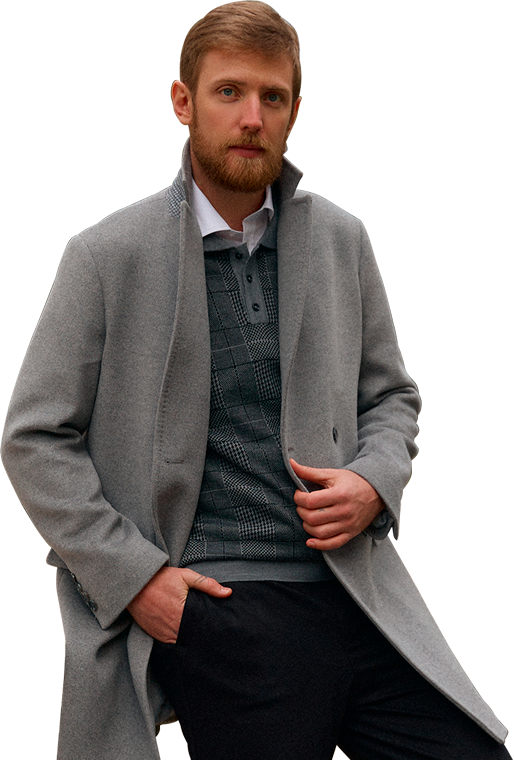
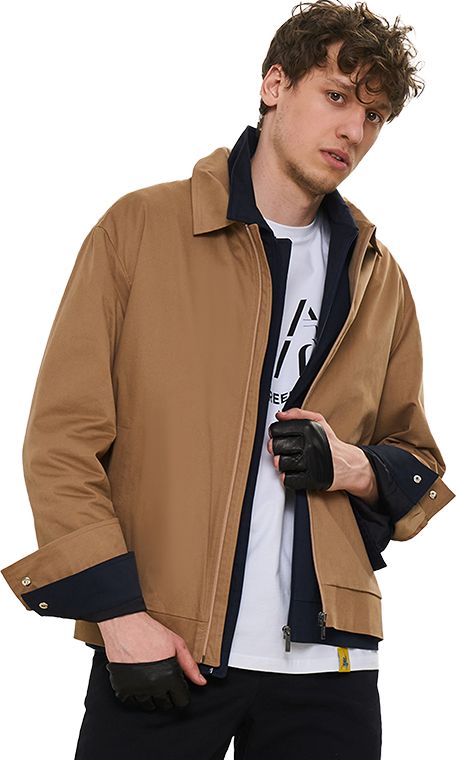
style: change total look img, about brand img, in collections slider per view is 3

diff --git a/src/views/CollectionsView/ui/sections/CollectionsSection/CollectionsSection.module.scss b/src/views/CollectionsView/ui/sections/CollectionsSection/CollectionsSection.module.scss
@@ -11,7 +11,7 @@
 
   .slider_wrap {
     @include breakpoint(tablet) {
-      width: calc(60% - 50px);
+      width: calc(80% - 50px);
     }
 
     @include breakpoint(desktop) {
@@ -22,7 +22,7 @@
 
   .image_wrap {
     @include breakpoint(tablet) {
-      width: 40%;
+      width: 25%;
     }
   }
 

diff --git a/src/views/CollectionsView/ui/sections/CollectionsSection/CollectionsSection.tsx b/src/views/CollectionsView/ui/sections/CollectionsSection/CollectionsSection.tsx
@@ -59,7 +59,7 @@ export const CollectionsSection = memo(({
             </Flex>
             <ProductSlider
               products={products}
-              slidesPerView={2}
+              slidesPerView={3}
               notFullWidthOnMobile
               navigationMode="wide"
             />

diff --git a/src/views/MainView/ui/sections/TotalLookSection/TotalLookSection.module.scss b/src/views/MainView/ui/sections/TotalLookSection/TotalLookSection.module.scss
@@ -20,13 +20,13 @@
 
   .manWrap {
     @include breakpoint(desktop) {
-      left: 80px;
+      // left: 80px;
     }
   }
 
   .womanWrap {
     @include breakpoint(desktop) {
-      left: -25px;
+      // left: -25px;
     }
   }
 
